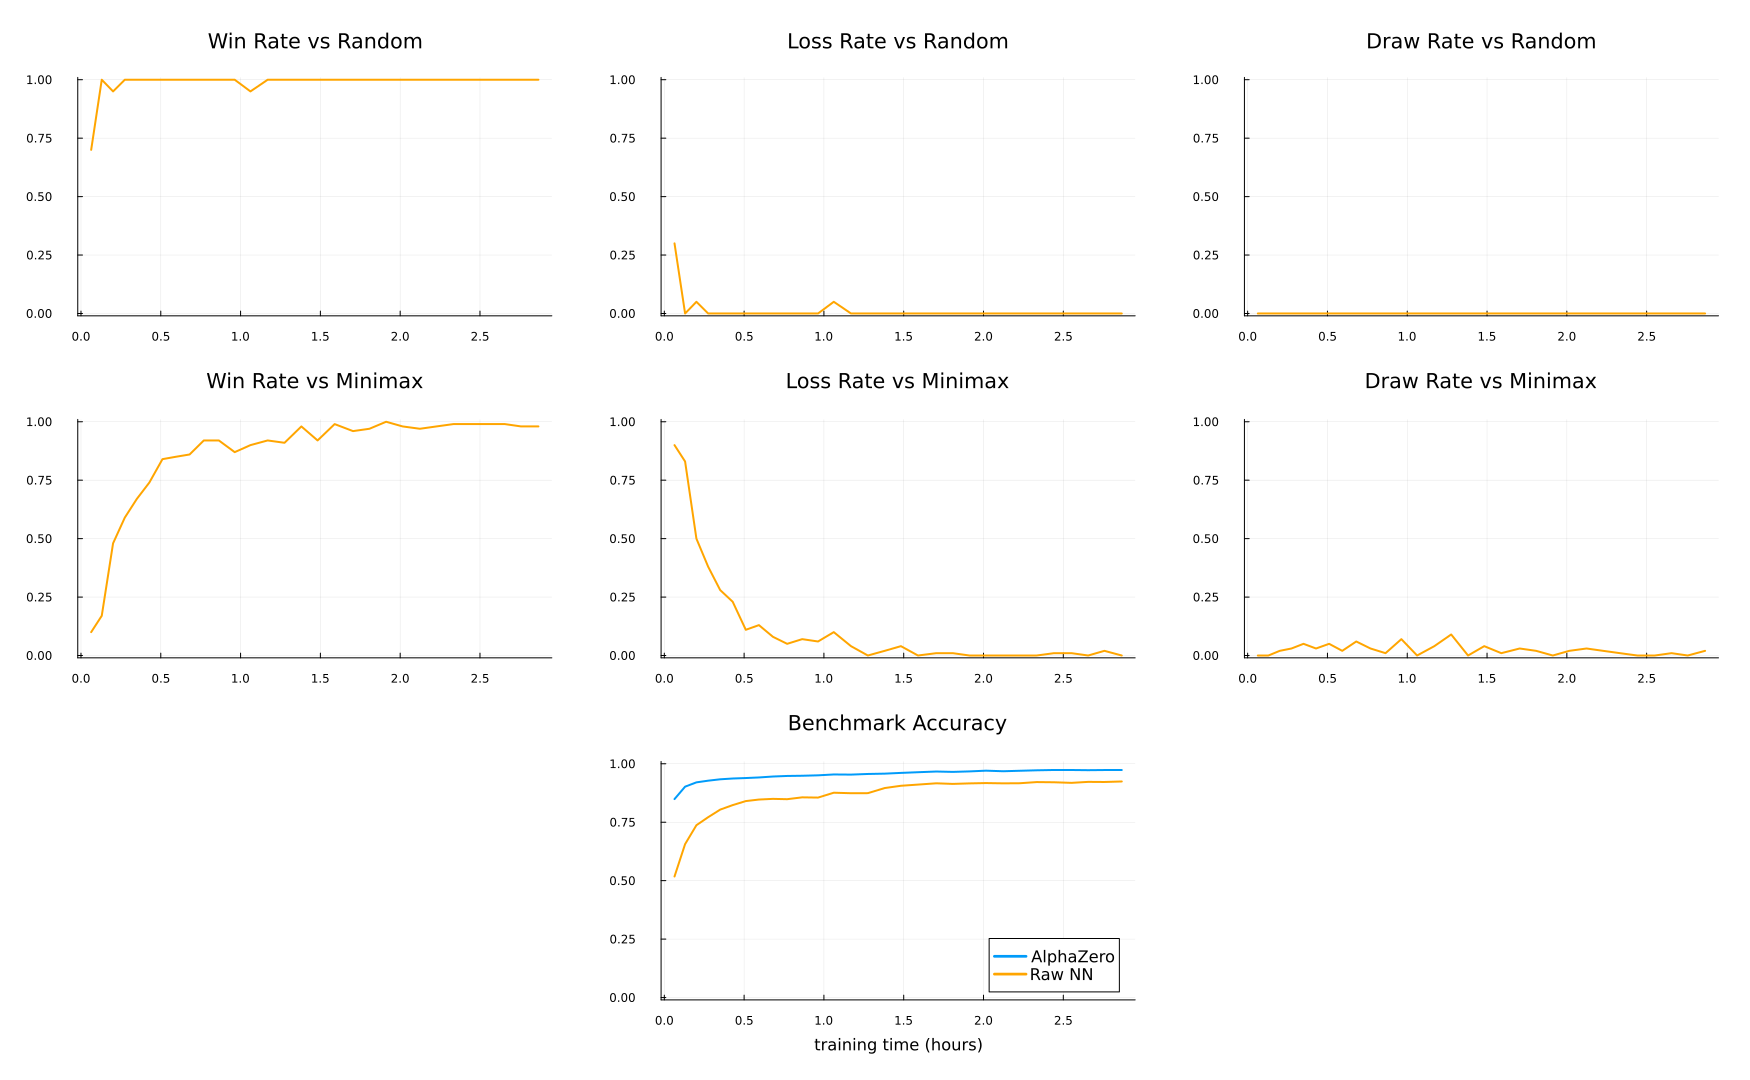
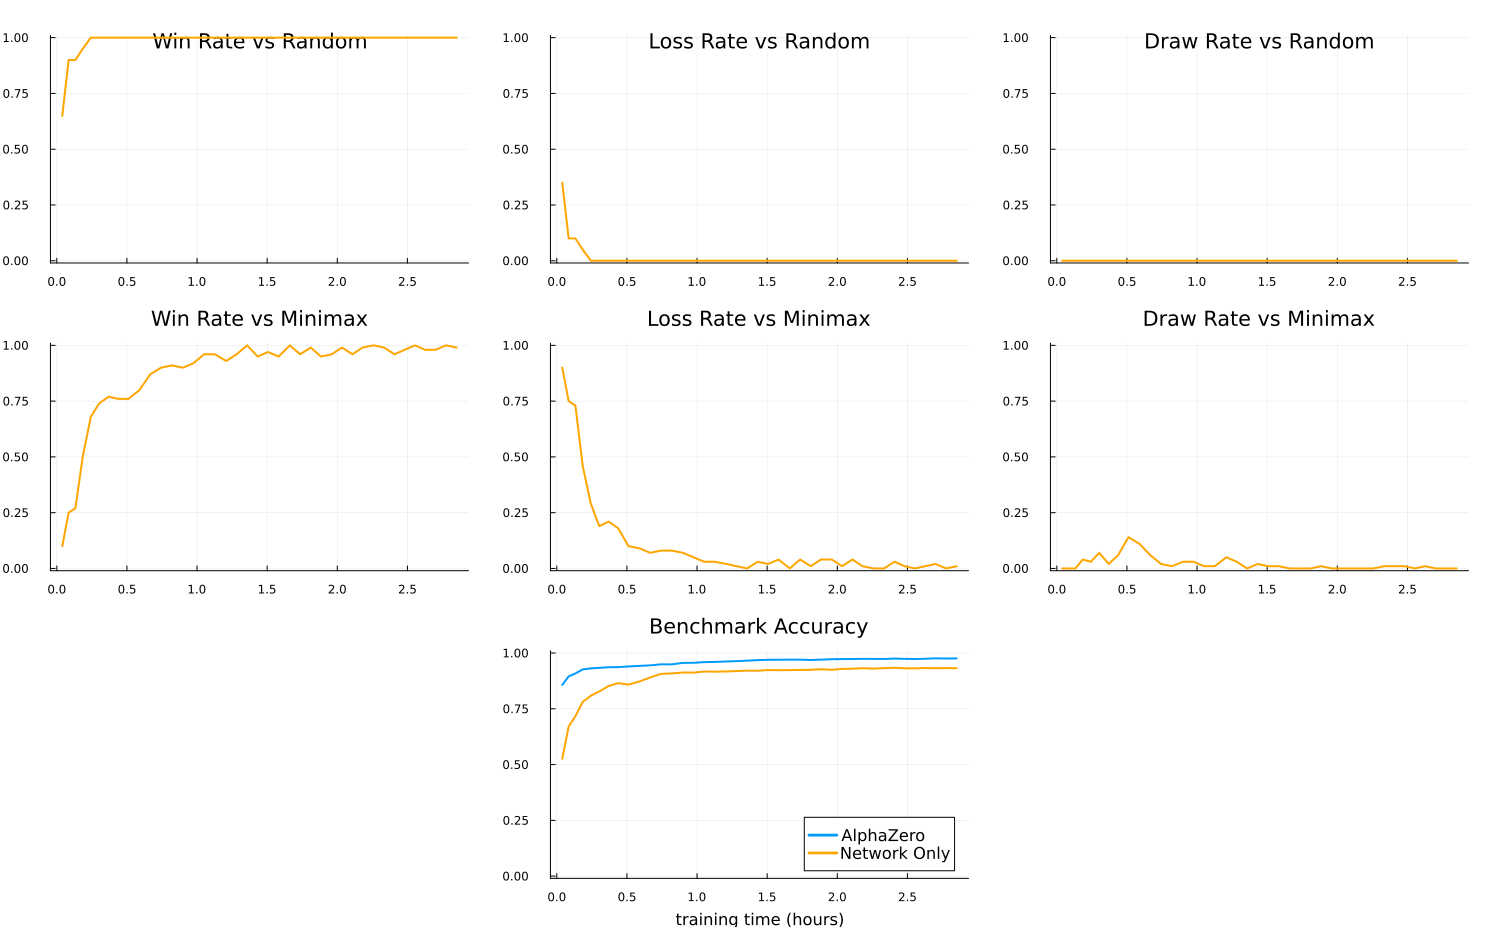
fix: Improve README plots

diff --git a/redesign/README.md b/redesign/README.md
@@ -3,7 +3,7 @@
 This repository is the result of Andreas Spanopoulos' contribution to the redesign of the
 [AlphaZero.jl](https://github.com/jonathan-laurent/AlphaZero.jl) open-source AlphaZero
 implementation in Julia. With this redesign, we achieved a remarkable
-**6x speedup in performance** by running the Monte Carlo Tree Search (MCTS) fully on GPU.
+**8x speedup in performance** by running the Monte Carlo Tree Search (MCTS) fully on GPU.
 
 The aims of this redesign are:
 
@@ -271,11 +271,8 @@ policy head. As training progresses, we would like to see the following things o
 Indeed, the plots show that all of the above occur:
 
 <p align="center">
-  <img src="examples/plots/random-walk-1d/metrics.png"
-        alt="RandomWalk1D AlphaZero Evaluation" width="350"/>
+  <img src="examples/plots/random-walk-1d/metrics.png" alt="RandomWalk1D AlphaZero Evaluation"/>
 </p>
-
-<!-- ToDo: Make plot horizontal. -->
 
 #### TicTacToe
 
@@ -361,7 +358,7 @@ For the third group, we can see the results in the following plot:
 </p>
 
 As we can see, the redesigned AlphaZero.jl manages to train a superhuman agent in
-~1.5 hours, which amounts to a ~6.25x speedup compared to the original AlphaZero.jl.
+~1.25 hours, which amounts to a ~8x speedup compared to the original AlphaZero.jl.
 By tuning hyperparameters, it is certainly possible to achieve even faster convergence.
 
 The hyperparameters used to achieve the above results can be found in
